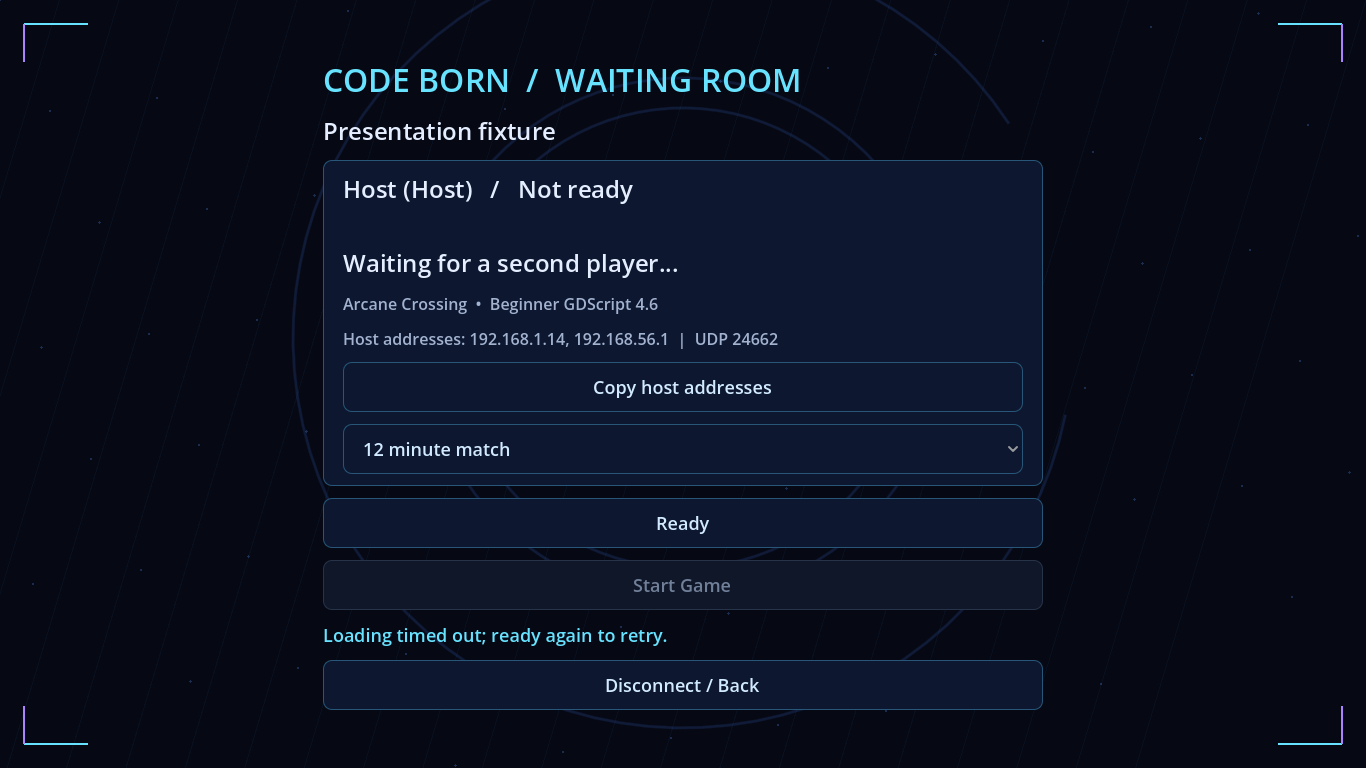
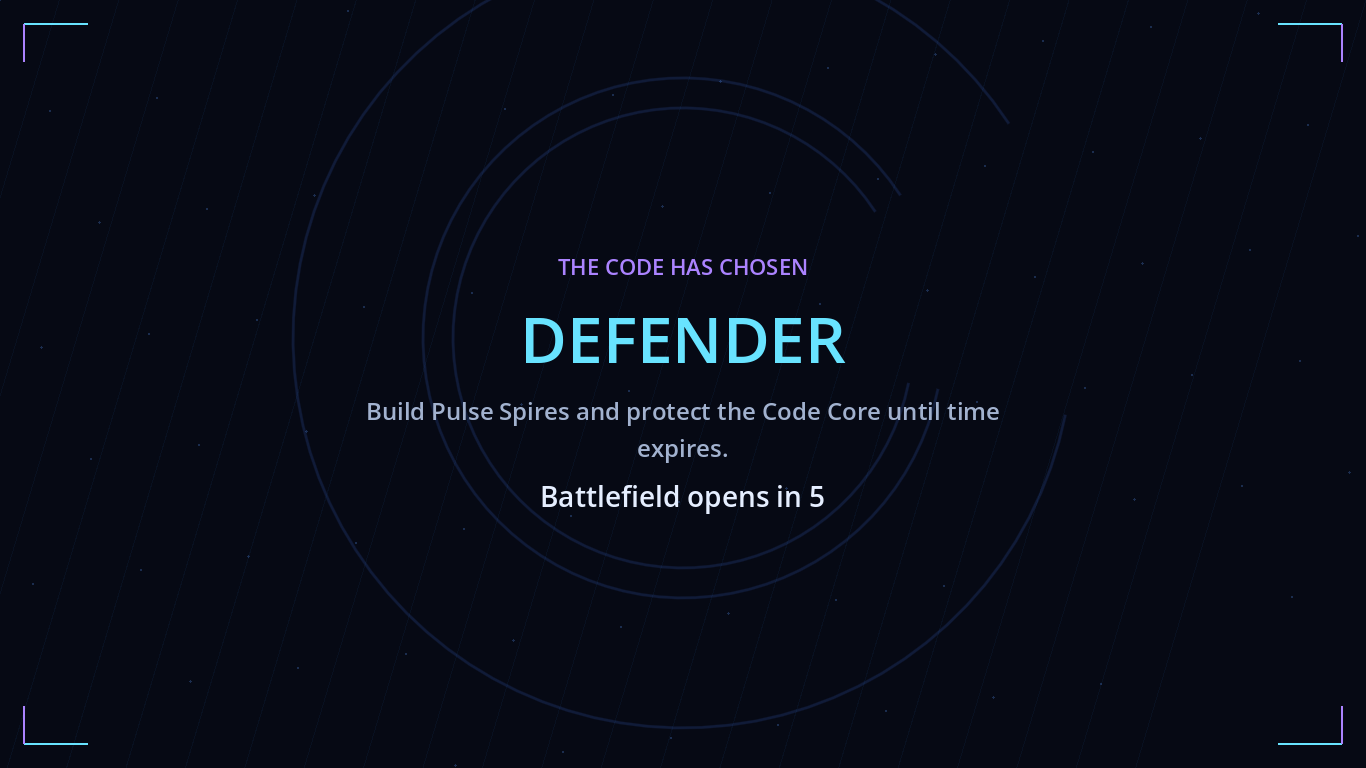
test: ensure role reveal captures display the intended screen

diff --git a/docs/verification.md b/docs/verification.md
@@ -8,14 +8,14 @@ Build 0.1.0, protocol 1, Godot `4.6.stable.official.89cea1439`. Local environmen
 | --- | --- |
 | Godot 4.6 editor import and script/scene loading | Clean headless editor import; all eight application scenes load; no parse errors |
 | Rules and local settings | 44 assertions passed: transaction replay, wrong roles, invalid/occupied nodes, insufficient funds, training timing, resource privacy, frozen upgrade snapshots, two-slot cap, host answer validation, final-tick tie, terminal immutability, reset, duration clamp, settings save/reload |
-| Rendered UI/navigation | 43 assertions passed; all starting buttons exercised (Quit in separate process); settings/developer/browser/lobby/game/results/menu loop; both role HUDs; both zoom limits; feedback stays within viewport |
+| Rendered UI/navigation | 44 assertions passed; all starting buttons exercised (Quit in separate process); settings/developer/browser/lobby/game/results/menu loop; both role HUDs; both zoom limits; feedback stays within viewport |
 | Two actual localhost processes | Host 9 / client 11 assertions passed; discover/join, repeated ready, matching roles, build/train, natural base-destruction outcome, rematch role swap, natural survival outcome, menu cleanup |
 | Result comparison | Public final state and both players' wallet/stat totals match exactly between peers for both matches; private pending orders/questions excluded intentionally |
 | Connection failures | 27 assertions passed across seven suites: content mismatch, full lobby, pre-ready start, ready reset after setting change, disconnect/rejoin before match, disconnect during match, host exit, unreachable host timeout |
 | Windows export | Matching official 4.6.stable Windows x86_64 debug/release templates installed; debug export produced EXE/PCK; exported application launched with real rendering and exited with code 0, no script/runtime errors |
 | Diff hygiene | `git diff --check` passed; generated caches, test artifacts and builds ignored |
 
-Total: 134 test assertions, plus the separate Quit action and cross-peer final-state comparison. The final UI-only run followed the complete suite to verify the final label/role-preview changes. The Windows export was rebuilt afterward. There are no known parse errors or failing automated checks at handoff.
+Total: 135 test assertions, plus the separate Quit action and cross-peer final-state comparison. The final UI-only run followed the complete suite to verify the final label/role-preview changes. The Windows export was rebuilt afterward. There are no known parse errors or failing automated checks at handoff.
 
 The integration harness accelerates wall-clock testing by feeding the same 1/30-second simulation ticks at about 30× speed. It does not assign winners or alter HP, prices, or results. The first match builds one tower and continuously orders troops; it ends at core destruction. The rematch makes no troop purchases and naturally reaches the configured 720-second survival limit. This proves authority/lifecycle behavior, not human balance or a real-time network endurance run.
 
